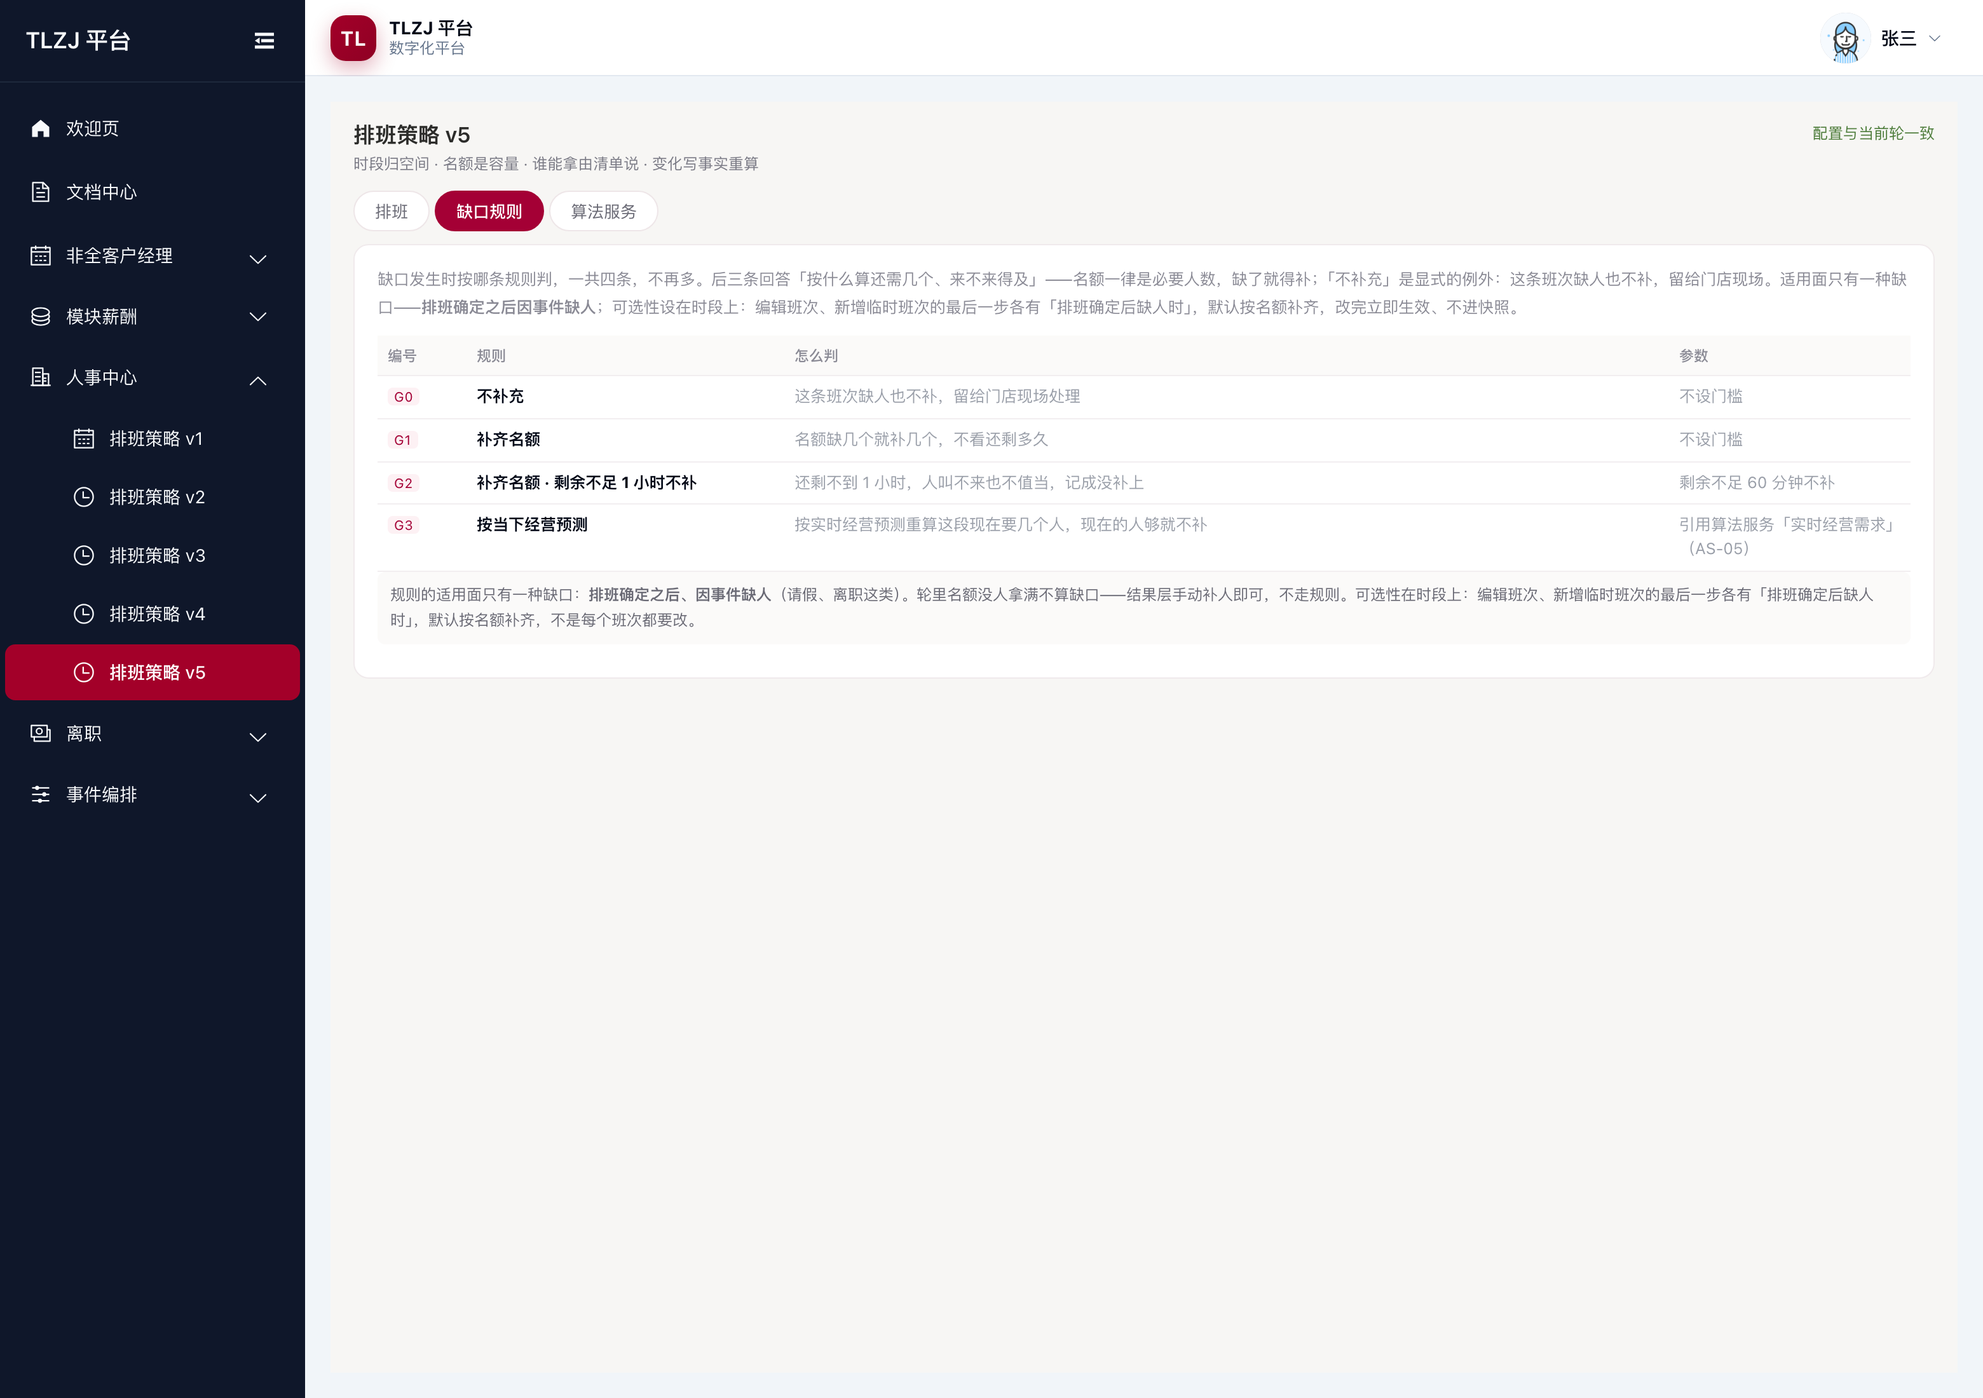
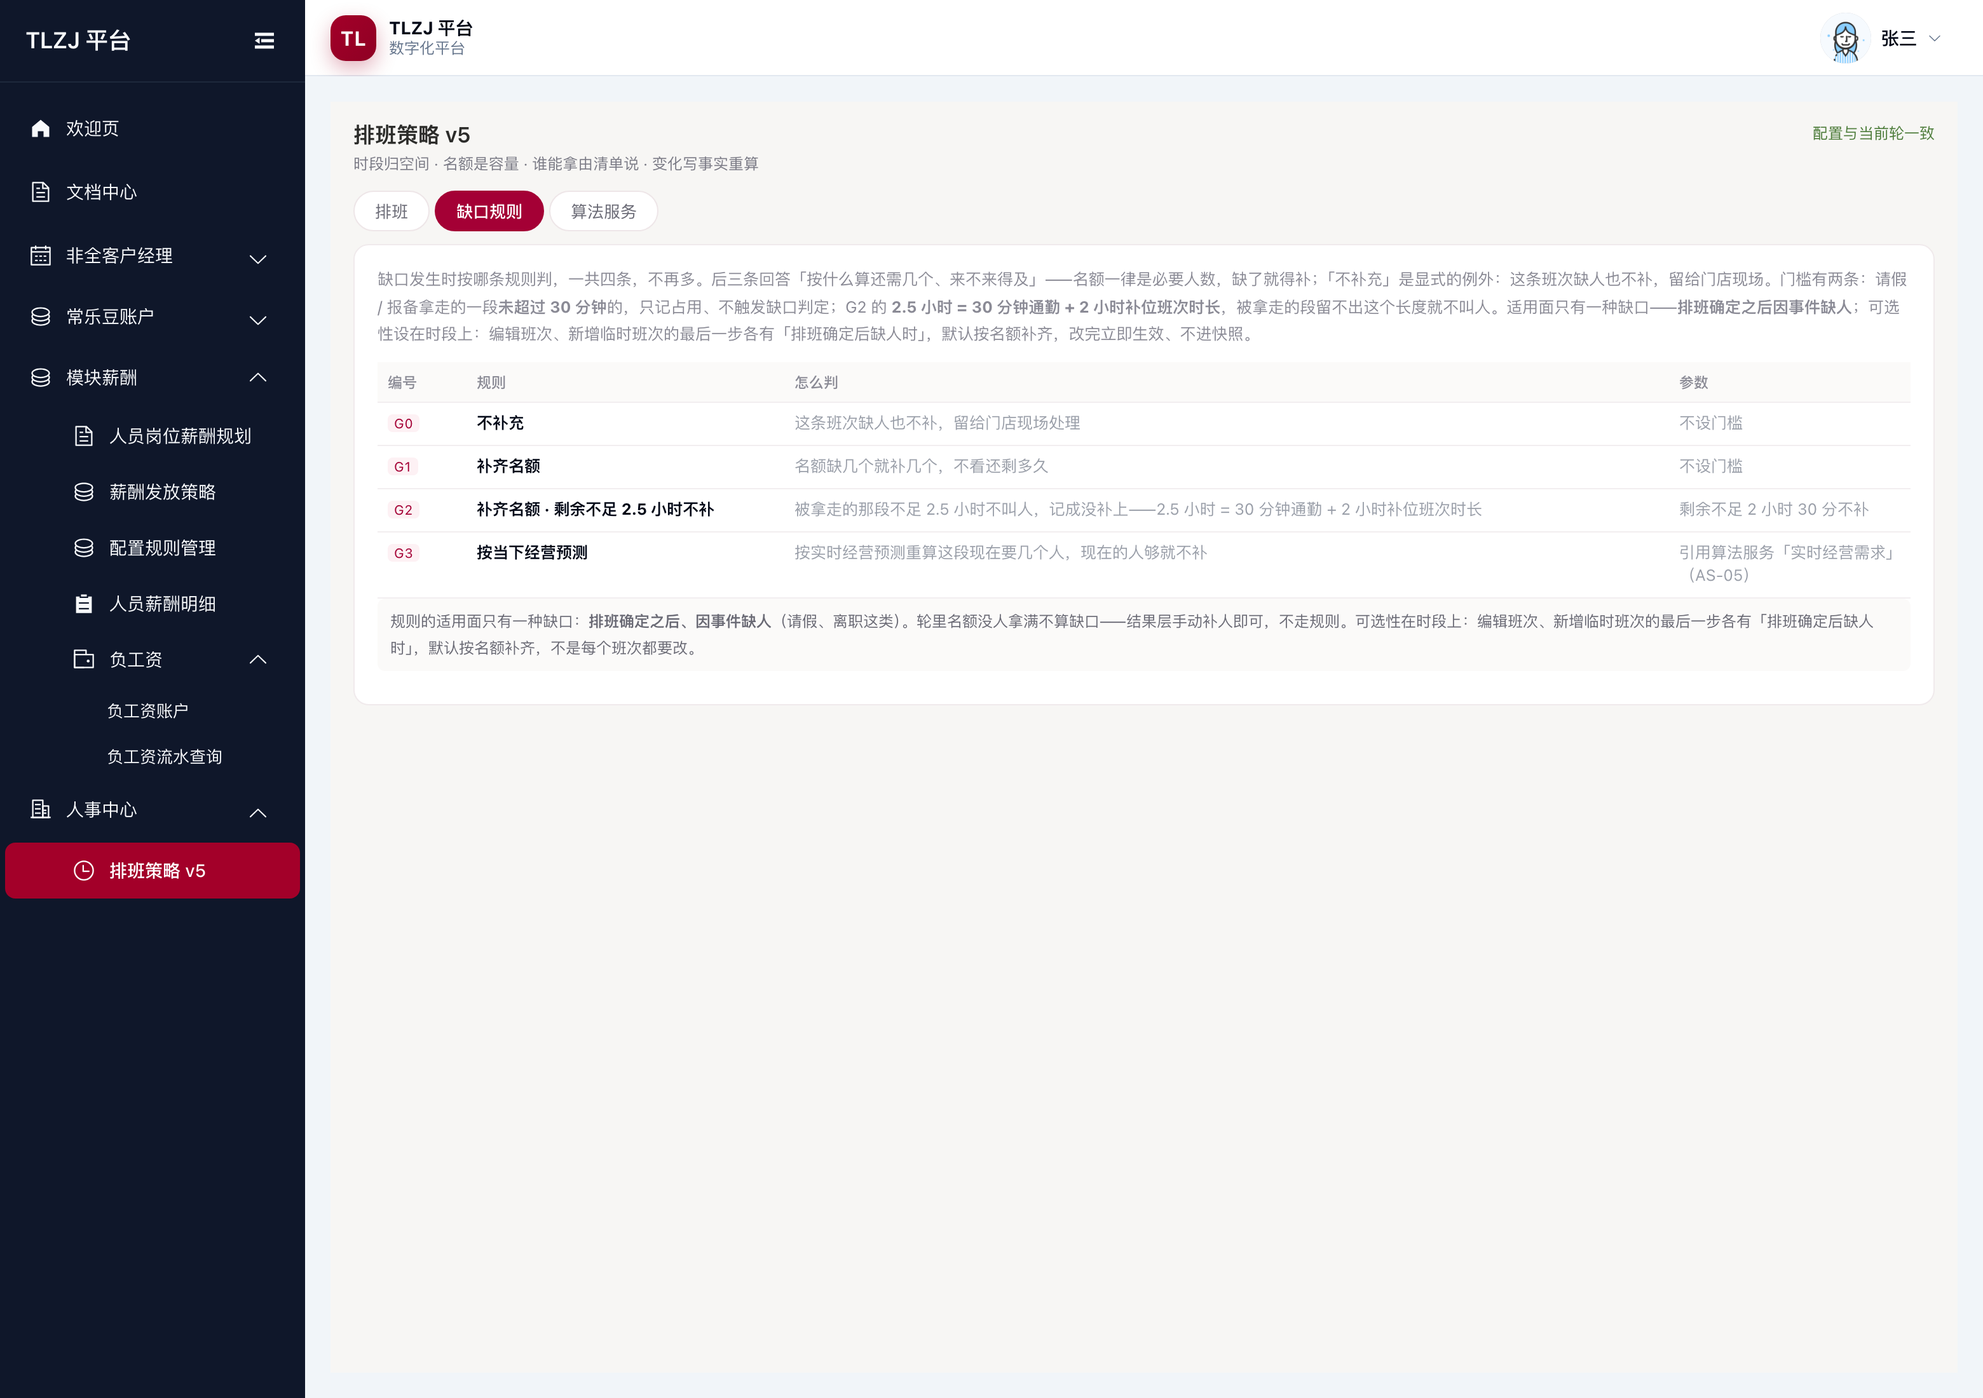
缺口判定两条门槛定案并同步原型与文档：请假/报备未超 30 分钟只记占用不触发缺口判定；G2 改剩余不足 2.5 小时不补（30 分钟通勤 + 2 小时补位班次），剩余=被拿走的那段；原型 GAP_RULES/addFact5/缺口规则页同步，测试 332/332，v5-gap.png 重截

diff --git a/src/views/hr-schedule/sections/HS64Facts.vue b/src/views/hr-schedule/sections/HS64Facts.vue
@@ -54,7 +54,7 @@
           <tr><th style="width: 90px;">事实</th><th style="width: 280px;">发生什么</th><th>系统怎么处理</th></tr>
         </thead>
         <tbody>
-          <tr><td><strong>请假</strong></td><td>人的一段班次时间来不了；可整班也可只请几小时</td><td>按这条班次的缺口规则重算（见 6.4.4）：只请一段也走缺口规则，顶班人只顶被拿走的那一段</td></tr>
+          <tr><td><strong>请假</strong></td><td>人的一段班次时间来不了；可整班也可只请几小时</td><td>按这条班次的缺口规则重算（见 6.4.4）：只请一段也走缺口规则，顶班人只顶被拿走的那一段；拿走的一段未超 30 分钟只记占用、不触发缺口判定</td></tr>
           <tr><td><strong>顶班</strong></td><td>人事安排另一个人来顶这个班</td><td>经营性安排，通知即可、不需对方同意；顶上后「待人事处理」自动销</td></tr>
           <tr><td><strong>换班</strong></td><td>两个人各拿自己的一天班次对调，同岗位对等</td><td>两条班次同时生效地对调，各自留变动历史；请求由对方在移动端答复。<strong>等待期 30 分钟</strong>：从发起算起，对方没拒绝也没同意，到点自动失效、两边都不动。谁能参与换班：只有这条班次允许获取的人群（清单档位里、按优先级开放的那批人）——档位外的人不出现在换班候选里，发起方选不到，对方也收不到请求</td></tr>
           <tr><td><strong>离职</strong></td><td>人离店，从某天起不再来</td><td>只交付事实与实际离职日期；后续班次标记被覆盖，<strong>不找人顶</strong>（补人由招聘侧处理）</td></tr>
@@ -87,7 +87,7 @@
         </thead>
         <tbody>
           <tr><td><strong>打卡</strong></td><td>上下班：班次的到岗与离岗记录，上下班成对出有效工时（见 6.7 / 6.8）</td><td>履约证明，只留痕；不占用班次、不触发重算</td></tr>
-          <tr><td><strong>请假 / 事件报备</strong></td><td>人一段时间来不了；请假撤销把这条事实失效、班次恢复</td><td>写请假事实，按缺口规则重算（见 6.4.4）</td></tr>
+          <tr><td><strong>请假 / 事件报备</strong></td><td>人一段时间来不了；请假撤销把这条事实失效、班次恢复</td><td>写请假事实，按缺口规则重算（见 6.4.4）；拿走的一段未超 30 分钟只记占用、不触发缺口判定</td></tr>
           <tr><td><strong>订单</strong></td><td>订单成交与取消订单</td><td>客量变化，动的是时段需求（名额侧），不占用个人班次</td></tr>
           <tr><td><strong>预约订单</strong></td><td>预定订单与取消预定订单</td><td>未来客量变化，影响后续时段的需求安排</td></tr>
           <tr><td><strong>培训</strong></td><td>培训占用的时段</td><td>证明该时段无法履约，写占用事实、走缺口规则重算</td></tr>
@@ -117,7 +117,7 @@
         <tbody>
           <tr><td><strong>G0 不补充</strong></td><td>缺了也不动，留给门店现场；发知情通知给人事经理（见 6.6）</td></tr>
           <tr><td><strong>G1 补齐名额</strong></td><td>缺几个补几个，不看还剩多久</td></tr>
-          <tr><td><strong>G2 补齐名额 · 剩余不足 1 小时不补</strong></td><td>还剩不到 1 小时叫不来人，记成没补上</td></tr>
+          <tr><td><strong>G2 补齐名额 · 剩余不足 2.5 小时不补</strong></td><td>「剩余」= 被事件拿走的那段时长；不足 2.5 小时不叫人，记成没补上。2.5 小时 = 30 分钟通勤 + 2 小时补位班次时长——补位人要赶来顶班，被拿走的段留不出这个长度就不值当</td></tr>
           <tr><td><strong>G3 按当下经营预测</strong></td><td>引用算法服务「实时经营需求」重算这段现在要几个人，够就不补</td></tr>
         </tbody>
       </table>
@@ -128,6 +128,7 @@
       <div class="note">
         <strong>边界：</strong>缺口规则只管<strong>排班确定之后因事件缺人</strong>（请假、离职这类）；
         加场名额没人抢不算缺口，获取段没排满也不算——结果层手动补人即可。
+        请假 / 事件报备拿走的一段<strong>未超过 30 分钟</strong>的，只记占用事实、<strong>不触发缺口判定</strong>——不足半小时的缺席不摆缺口、不寻人、不发缺口通知。
       </div>
     </div>
 

diff --git a/src/mock/scheduleV5.js b/src/mock/scheduleV5.js
@@ -783,13 +783,15 @@ export function slotsOn5(state, date) {
 
 /* ===== 缺口规则：缺口发生时，用哪条规则决定补不补 =====
    名额一律是必要人数，所以规则不讨论「要不要有人」，只讨论「按什么算还需要几个、来不来得及」。
-   三条锁死，不给自由条件编辑器：G1 补齐名额 / G2 剩余不足 1 小时不补 / G3 按当下经营预测。
+   三条锁死，不给自由条件编辑器：G1 补齐名额 / G2 剩余不足 2.5 小时不补 / G3 按当下经营预测。
+   G2 的 2.5 小时 = 30 分钟通勤 + 2 小时补位班次时长，「剩余」= 被事件拿走的那段时长。
+   门槛：请假 / 报备拿走的一段未超过 30 分钟，只记占用事实、不触发缺口判定。
    规则改的是「怎么判断」，不改名额、不改归属，也不需要快照。 */
 export const GAP_RULES5 = [
   /* G0 是显式的「不补」：缺了也不动，留给门店现场，不产生补人待办 */
   { id: 'G0', name: '不补充', note: '这条班次缺人也不补，留给门店现场处理', kind: 'none', minGap: 0 },
   { id: 'G1', name: '补齐名额', note: '名额缺几个就补几个，不看还剩多久', kind: 'quota', minGap: 0 },
-  { id: 'G2', name: '补齐名额 · 剩余不足 1 小时不补', note: '还剩不到 1 小时，人叫不来也不值当，记成没补上', kind: 'quota', minGap: 60 },
+  { id: 'G2', name: '补齐名额 · 剩余不足 2.5 小时不补', note: '被拿走的那段不足 2.5 小时不叫人，记成没补上——2.5 小时 = 30 分钟通勤 + 2 小时补位班次时长', kind: 'quota', minGap: 150 },
   /* G3 不是独立算法：引用算法服务里注册的「实时经营需求」（AS-05），预测值从那来 */
   { id: 'G3', name: '按当下经营预测', note: '按实时经营预测重算这段现在要几个人，现在的人够就不补', kind: 'forecast', serviceId: 'AS-05', minGap: 0 }
 ]
@@ -835,6 +837,7 @@ export function fmtRemain5(min) {
 /*
   一条缺口按某条规则算一遍：只出结论，不落动作。
   remainMin / forecast 允许调用方假定「缺口发生在另一个时刻」「预测值是另一个数」，缺省按实际。
+  「剩余」口径 = 被事件拿走的那段时长：整段缺口即班次剩余时间，段级缺口由调用方传 remainMin。
 */
 export function evalGap5(state, slotId, date, rule, opts = {}) {
   const n = snapN5(state, slotId, date)
@@ -851,7 +854,7 @@ export function evalGap5(state, slotId, date, rule, opts = {}) {
   }
   if (remain === 0) return { need: quota, action: 'missed', text: '补不上，记成没补上', why: '这段已经开始了' }
   if (rule.minGap && remain < rule.minGap) {
-    return { need: quota, action: 'missed', text: '补不上，记成没补上', why: `还剩 ${fmtRemain5(remain)}，不到 ${rule.minGap} 分钟` }
+    return { need: quota, action: 'missed', text: '补不上，记成没补上', why: `还剩 ${fmtRemain5(remain)}，不足 ${fmtRemain5(rule.minGap)}（30 分钟通勤 + 2 小时补位班次）` }
   }
   return { need: quota, action: 'supplement', text: `按规则该补 ${quota} 人`, why: `名额 ${n} 人，现在 ${occ} 人` }
 }
@@ -1378,7 +1381,16 @@ export function addFact5(state, fact) {
     const slot = slotById(state, fact.slotId)
     /* 只请一部分时间（如 1 小时）：班次还在这个人身上，被拿走的那段就是缺口，按班次声明的缺口规则处理 */
     const partial = target && slot && fact.start && fact.end && (fact.start > slot.start || fact.end < slot.end)
-    if (target && partial) {
+    /* 被拿走的一段未超过 30 分钟：只记占用事实，不触发缺口判定（不摆缺口、不寻人、不发缺口通知） */
+    const toMin = t => { const [h, m] = t.split(':').map(Number); return h * 60 + m }
+    const takenMins = target && slot
+      ? (partial ? toMin(fact.end) - toMin(fact.start) : toMin(slot.end) - toMin(slot.start))
+      : Infinity
+    if (target && takenMins <= 30) {
+      fact.result = partial
+        ? `只占 ${fact.start}–${fact.end}，未超 30 分钟，只记占用、不触发缺口判定`
+        : '未超 30 分钟，只记占用、不触发缺口判定'
+    } else if (target && partial) {
       if (gapRuleOfSlot5(state, target.slotId).kind === 'none') {
         fact.result = `只占 ${fact.start}–${fact.end}，剩余时间不动；少的那段按班次规则不补充，已通知人事`
         state.notices.unshift({

diff --git a/src/views/hr-schedule/sections/HS05Scope.vue b/src/views/hr-schedule/sections/HS05Scope.vue
@@ -455,7 +455,8 @@
 
       <div class="note">
         <strong>缺口规则只管一件事：排班确定后，因事件缺了人。</strong>获取段没排满（名额 3 个只有 2 个人拿）不算缺口，结果层手动补人即可。
-        缺口发生时按班次上声明的规则处理，一共四条：不补充（缺人也不补，留给门店现场安排）/ 补齐名额 / 剩余不足 1 小时不补 / 按当下预测再算（引用算法服务里登记的「实时经营需求」；这条算法是计算传参——岗位、合作形式、时段、实时数据由调用传入，各店各岗分开算）。
+        缺口发生时按班次上声明的规则处理，一共四条：不补充（缺人也不补，留给门店现场安排）/ 补齐名额 / 剩余不足 2.5 小时不补（2.5 小时 = 30 分钟通勤 + 2 小时补位班次时长，被拿走的段留不出这个长度就不叫人）/ 按当下预测再算（引用算法服务里登记的「实时经营需求」；这条算法是计算传参——岗位、合作形式、时段、实时数据由调用传入，各店各岗分开算）。
+        请假 / 报备拿走的一段未超过 30 分钟的，不触发缺口判定——只记占用事实，不摆缺口、不寻人。
         「不补充」是显式的选项，不是没有配置。缺口发生就是异常：无论规则答的是补还是不补，系统都给对应的人事经理发一条缺口通知——
         设了不补充的让人事知情（缺的人留门店现场安排），要补还没补上的等人事来定（人事写顶班事实后，待处理通知自动销掉）。
       </div>
@@ -506,7 +507,7 @@
         <text x="40" y="214" font-size="12" fill="#6a6a75">作业面 = 被事件拿走的那段；没被事件碰到的班次时间，仍归原来的人履约</text>
         <text x="40" y="236" font-size="12" fill="#6a6a75">被拿走的段少人 → 要不要补、怎么补，缺口规则已答（G0–G3），排班不自动找人</text>
       </svg>
-      <p class="arch-cap">三种切法共用同一条界线：事件只拿走声明的那一段，没被碰到的班次时间还是原来的人的。</p>
+      <p class="arch-cap">三种切法共用同一条界线：事件只拿走声明的那一段，没被碰到的班次时间还是原来的人的；拿走的一段未超 30 分钟只记占用、不触发缺口判定。</p>
 
       <h4 class="h4sub">一个人的时间线：班次条、事实条、补位条各自是独立区间</h4>
       <svg class="v5-tl" viewBox="0 0 680 386" role="img" aria-label="A 的时间线：撤销休假没有改动任何一条班次">

diff --git a/src/views/hr-schedule/sections/HS65Mobile.vue b/src/views/hr-schedule/sections/HS65Mobile.vue
@@ -42,7 +42,7 @@
           <tr><td><strong>当天班次卡</strong></td><td>班次名、时间、空间；「这条班怎么来的」（系统排给你的 / 自己领的）</td><td>直派的班写明「系统按规则直接排给你的，不用抢」</td></tr>
           <tr><td><strong>公共区入口</strong></td><td>月历下方一行按钮：全职 = 休假申请（跳专门排假模块）；非全 = 事件报备</td><td>入口在公共区、不放进班次卡，也不带解释文案——按钮就是入口</td></tr>
           <tr><td><strong>被占用历史</strong></td><td>这条班的哪一段时间被什么事件占用、谁来顶的</td><td>「一段时间被事件占用」的表达，不改动班次本身</td></tr>
-          <tr><td><strong>事件报备（非全）</strong></td><td>选班（今天及以后自己已获得的班）→ 范围（整段 / 部分时间）→ 分类与备注（都不必填）→ 提交</td><td><strong>报备即生效</strong>：不用人事审，报了就按这条事实重算——能顶的当场顶上，顶不了按缺口规则记缺口并通知人事；换出去的、时间被占用过的班列不出来；报备后月历打琥珀点、班次卡带「已报备」说明行</td></tr>
+          <tr><td><strong>事件报备（非全）</strong></td><td>选班（今天及以后自己已获得的班）→ 范围（整段 / 部分时间）→ 分类与备注（都不必填）→ 提交</td><td><strong>报备即生效</strong>：不用人事审，报了就按这条事实重算——拿走的一段未超 30 分钟只记占用、不触发缺口判定；超了能顶的当场顶上，顶不了按缺口规则记缺口并通知人事；换出去的、时间被占用过的班列不出来；报备后月历打琥珀点、班次卡带「已报备」说明行</td></tr>
           <tr><td><strong>动作</strong></td><td>找人对换（发起换班）</td><td>请假不在排班页发起——走专门的请假模块；补位确认落在班次卡上：待你确认 + 收到，我来。<strong>换班候选只有这条班次允许获取的人群</strong>（清单档位，按优先级），档位外的人不列出来（见 6.4）</td></tr>
         </tbody>
       </table>

diff --git a/src/views/ScheduleV5.vue b/src/views/ScheduleV5.vue
@@ -920,7 +920,7 @@
     <!-- 缺口规则：就是几条规则本身。可选性设在时段上（周期班次、临时班次各选一条） -->
     <section v-show="mainTab === 'gap'" class="svc-pane">
       <div class="svc-head">
-        <p>缺口发生时按哪条规则判，一共四条，不再多。后三条回答「按什么算还需几个、来不来得及」——名额一律是必要人数，缺了就得补；「不补充」是显式的例外：这条班次缺人也不补，留给门店现场。适用面只有一种缺口——<b>排班确定之后因事件缺人</b>；可选性设在时段上：编辑班次、新增临时班次的最后一步各有「排班确定后缺人时」，默认按名额补齐，改完立即生效、不进快照。</p>
+        <p>缺口发生时按哪条规则判，一共四条，不再多。后三条回答「按什么算还需几个、来不来得及」——名额一律是必要人数，缺了就得补；「不补充」是显式的例外：这条班次缺人也不补，留给门店现场。门槛有两条：请假 / 报备拿走的一段<b>未超过 30 分钟</b>的，只记占用、不触发缺口判定；G2 的 <b>2.5 小时 = 30 分钟通勤 + 2 小时补位班次时长</b>，被拿走的段留不出这个长度就不叫人。适用面只有一种缺口——<b>排班确定之后因事件缺人</b>；可选性设在时段上：编辑班次、新增临时班次的最后一步各有「排班确定后缺人时」，默认按名额补齐，改完立即生效、不进快照。</p>
       </div>
 
       <table class="data-table">
@@ -932,7 +932,7 @@
             <td><span class="gr-id">{{ r.id }}</span></td>
             <td><strong>{{ r.name }}</strong></td>
             <td class="muted">{{ r.note }}</td>
-            <td class="muted">{{ r.minGap ? `剩余不足 ${r.minGap} 分钟不补` : (r.serviceId ? `引用算法服务「实时经营需求」（${r.serviceId}）` : '不设门槛') }}</td>
+            <td class="muted">{{ r.minGap ? `剩余不足 ${fmtRemain(r.minGap)}不补` : (r.serviceId ? `引用算法服务「实时经营需求」（${r.serviceId}）` : '不设门槛') }}</td>
           </tr>
         </tbody>
       </table>
